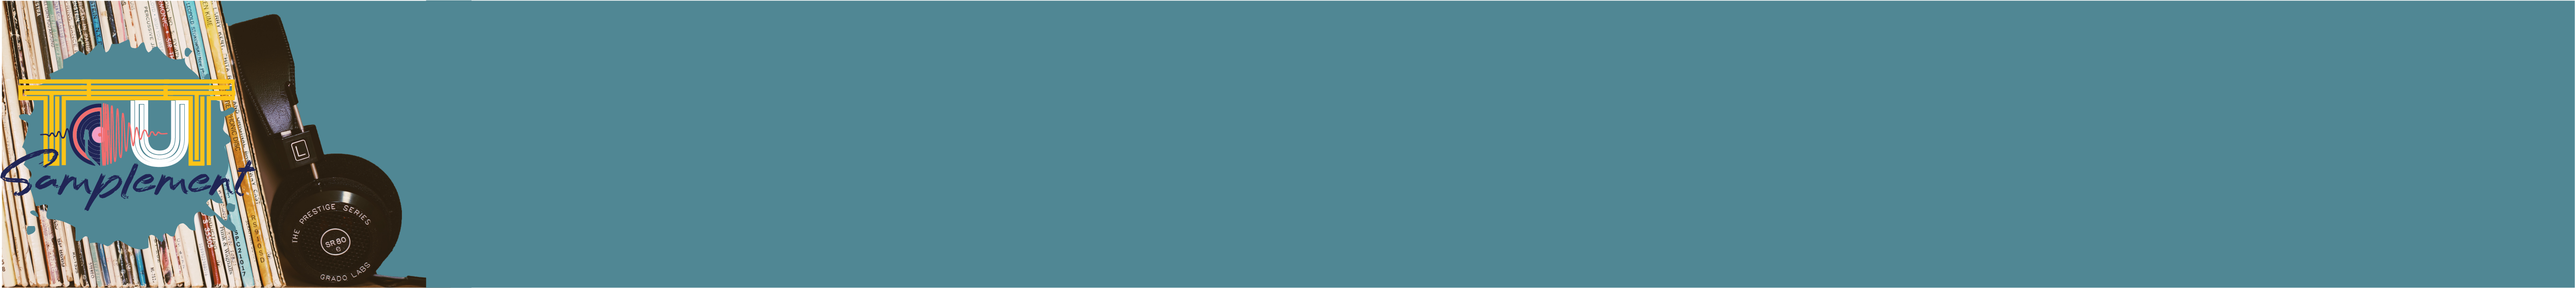
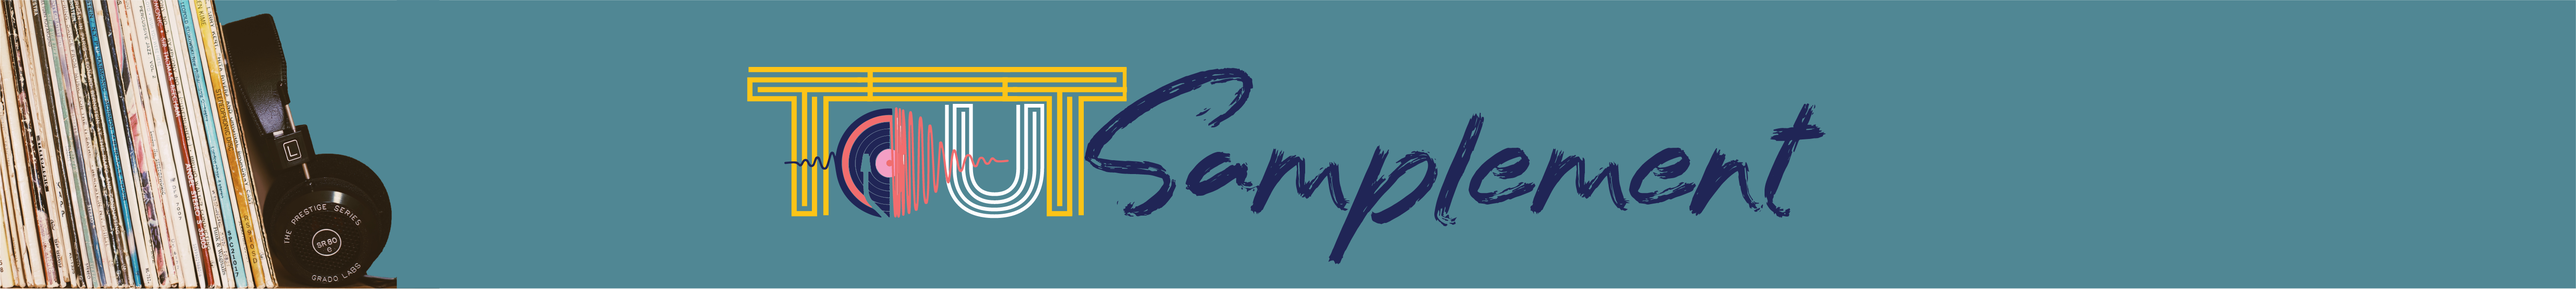
New

Changed region(s): [[0.0, 0.0, 1.0, 1.0], [0.28, 0.2135, 0.7155, 0.9149], [0.1867, 0.0, 1.0, 0.0305]]

diff --git a/public/css/style.css b/public/css/style.css
@@ -48,6 +48,22 @@ footer, header, hgroup, menu, nav, section {
 
 }
 
+header {
+
+    margin: 0;
+
+    padding: 0;
+
+    border: 0;
+
+    font-size: 100%;
+
+    font: inherit;
+
+    vertical-align: baseline;
+
+}
+
 body {
 
     line-height: 1;
@@ -110,7 +126,7 @@ footer {
 
     left:0;
 
-    height: 4em;
+    height: 3.5em;
 
     /*   background-repeat: repeat;*/
 
@@ -222,7 +238,7 @@ nav{
 
     position:relative;
 
-    height: 7em;
+    height: 10em;
 
 }
 
